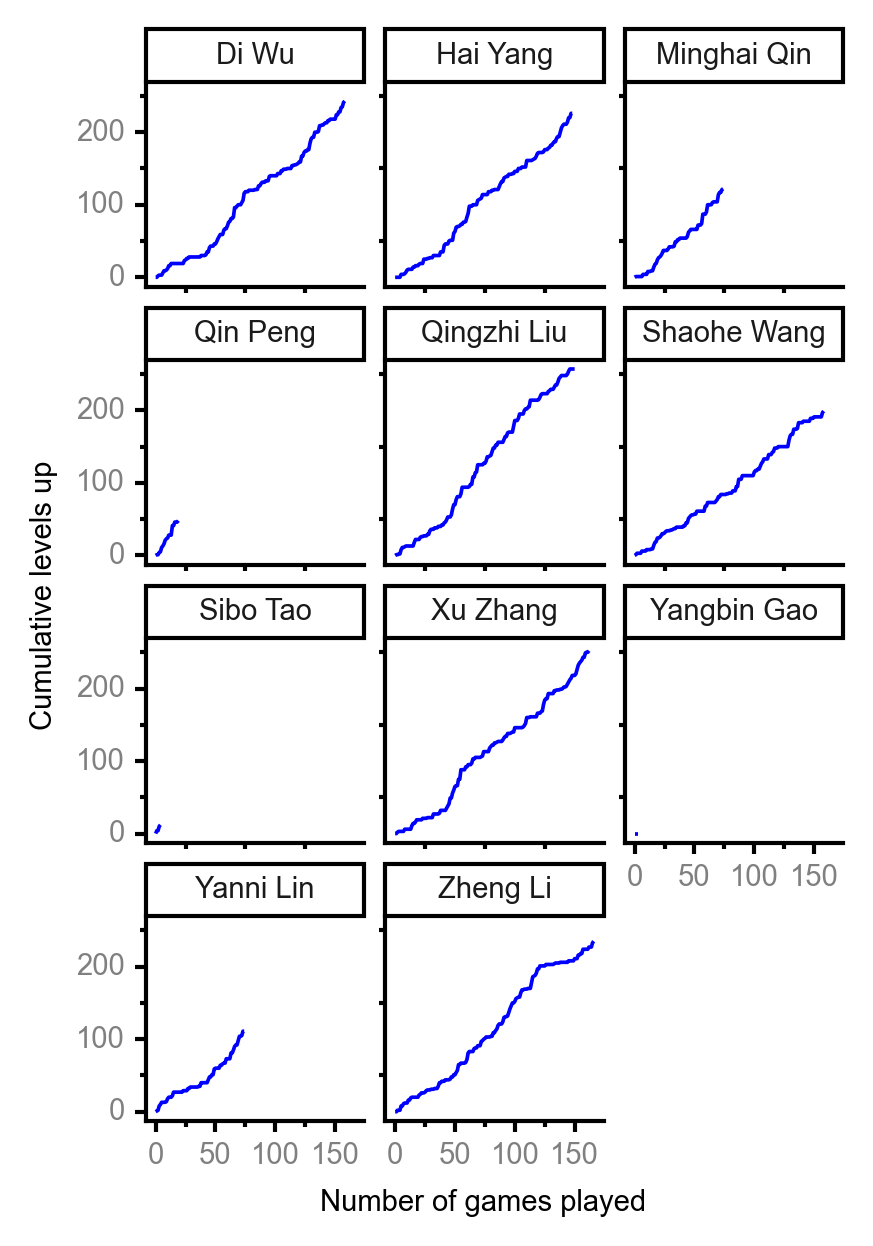
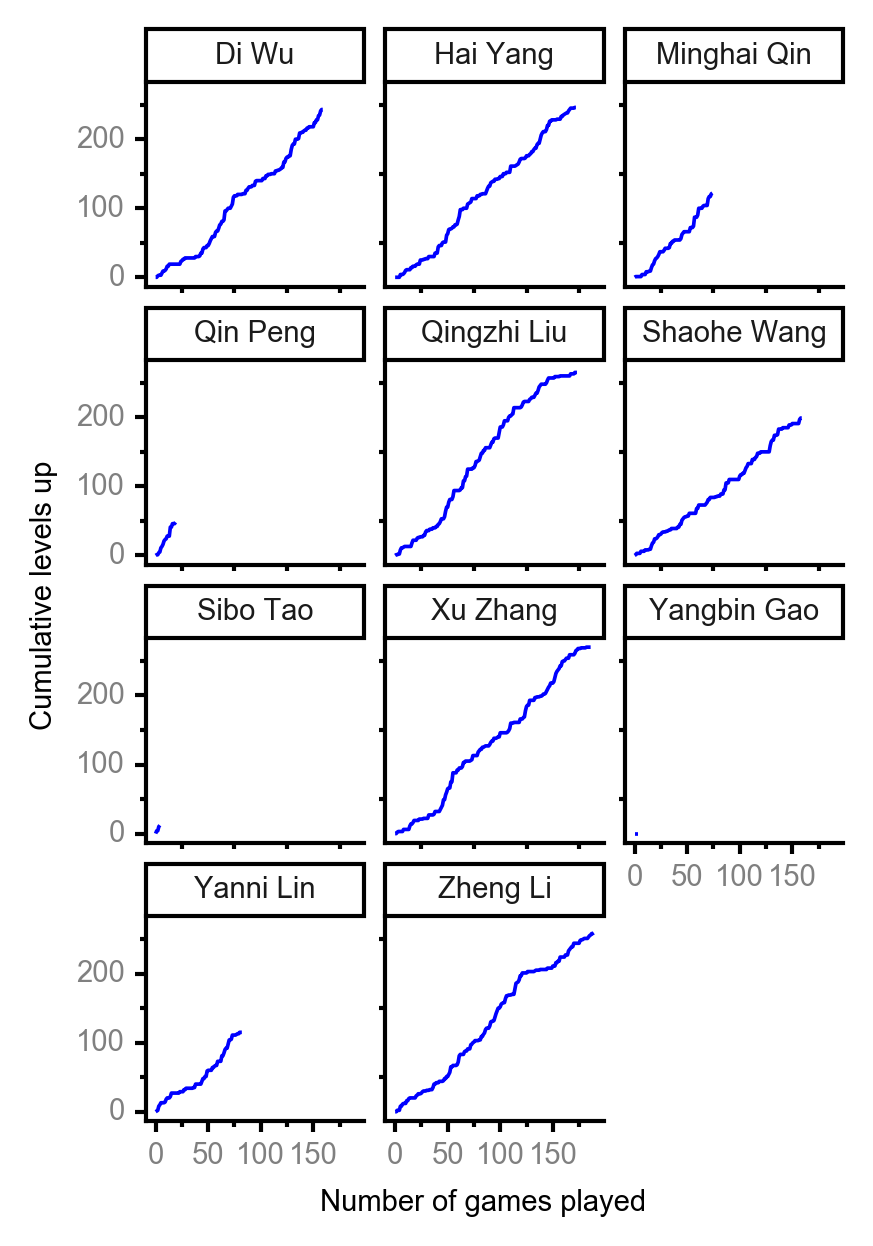
updata players stats

diff --git a/player_stats.md b/player_stats.md
@@ -3,7 +3,7 @@ layout: player_stats
 title: Player Statistics
 author: Shaohe Wang
 author_url: https://scholar.google.com/citations?user=R_-kJV4AAAAJ&hl=en
-date: 2021-02-21
+date: 2021-03-13
 ---
 
 #### [Spreadsheet](https://docs.google.com/spreadsheets/d/1So3PBr9gV3I0LzApZOgJlQew2QjM1wAiWhR50rAnHRg/edit#gid=2137801449)
@@ -14,17 +14,18 @@ date: 2021-02-21
 
 | <br><br><br>Rank | <br><br><br>Player | <br> Lifetime <br> levels <br> up | <br><br> Winning <br> rate | <br> Average <br> levels <br> up | <br> Total <br> games <br> played | Games <br> played <br> as <br> MVP | Games <br> played <br> as <br> dealer | N_games <br> short <br> staffed <br> as dealer | Winning <br> rate <br> as <br> dealer |
 |:---:|:---:|:---:|:---:|:---:|:---:|:---:|:---:|:---:|:---:|
-| 1 | Qingzhi <br> Liu | 257 | 53.6% | 3.17 | 151 | 11 | 24 | 3 | 54.2% |
-| 2 | Xu <br> Zhang | 254 | 52.8% | 2.95 | 163 | 8 | 28 | 1 | 50.0% |
-| 3 | Di <br> Wu | 243 | 48.4% | 3.16 | 159 | 10 | 28 | 0 | 39.3% |
-| 4 | Zheng <br> Li | 237 | 53.3% | 2.66 | 167 | 6 | 23 | 0 | 56.5% |
-| 5 | Hai <br> Yang | 228 | 51.0% | 3.00 | 149 | 13 | 27 | 1 | 51.9% |
-| 6 | Shaohe <br> Wang | 199 | 44.0% | 2.84 | 159 | 7 | 25 | 2 | 36.0% |
+| 1 | Xu <br> Zhang | 272 | 52.4% | 2.78 | 187 | 10 | 34 | 1 | 50.0% |
+| 2 | Qingzhi <br> Liu | 265 | 50.6% | 3.01 | 174 | 11 | 28 | 3 | 50.0% |
+| 3 | Zheng <br> Li | 259 | 54.7% | 2.49 | 190 | 6 | 28 | 0 | 64.3% |
+| 4 | Hai <br> Yang | 246 | 50.9% | 2.80 | 173 | 13 | 33 | 1 | 54.5% |
+| 5 | Di <br> Wu | 243 | 48.1% | 3.16 | 160 | 10 | 29 | 0 | 37.9% |
+| 6 | Shaohe <br> Wang | 201 | 44.4% | 2.83 | 160 | 7 | 25 | 2 | 36.0% |
 | 7 | Minghai <br> Qin | 123 | 53.3% | 3.08 | 75 | 1 | 11 | 1 | 72.7% |
-| 8 | Yanni <br> Lin | 111 | 46.7% | 3.17 | 75 | 9 | 6 | 2 | 33.3% |
+| 8 | Yanni <br> Lin | 115 | 47.0% | 2.95 | 83 | 10 | 8 | 2 | 37.5% |
 | 9 | Qin <br> Peng | 51 | 75.0% | 3.40 | 20 | 2 | 2 | 0 | 100.0% |
 | 10 | Sibo <br> Tao | 14 | 80.0% | 3.50 | 5 | 0 | 0 | 0 | 0.0% |
 | 11 | Yangbin <br> Gao | 0 | 0.0% | 0.00 | 4 | 0 | 0 | 0 | 0.0% |
+| 1 | Example | 49 | 88.9% | 2.88 | 9 | 1 | 2 | 0 | 100.0% |
 
 </div>
 
